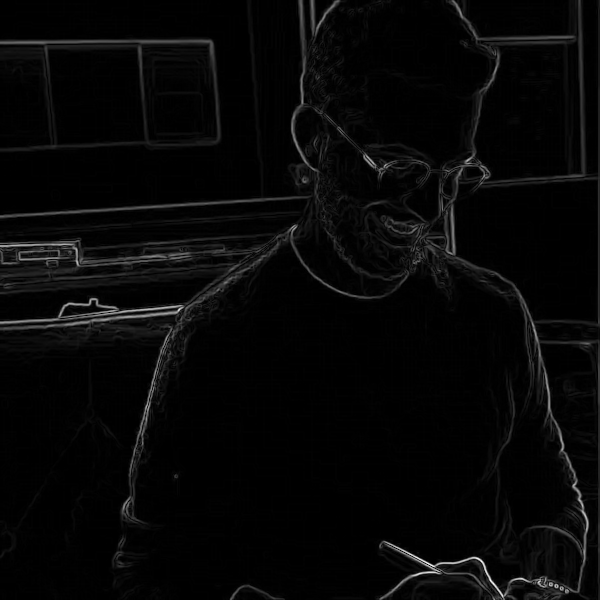
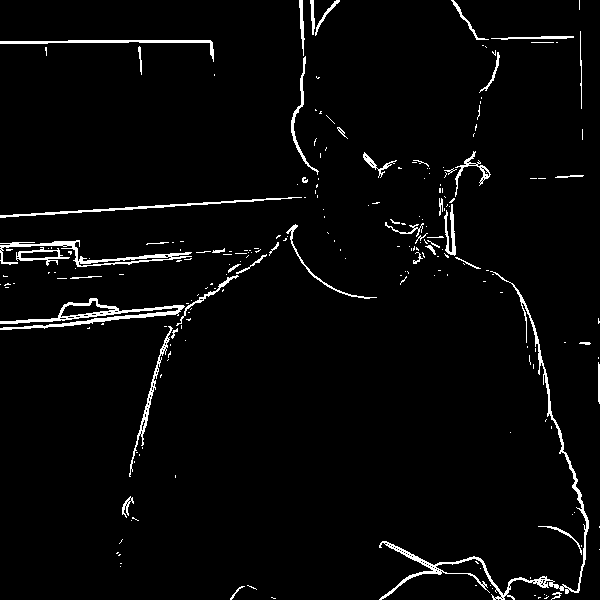
Update filters based on test results

diff --git a/image_utils.py b/image_utils.py
@@ -1,50 +1,41 @@
 from PIL import Image
 import numpy as np
 from scipy.signal import convolve2d
+from skimage.filters import median
+from skimage.morphology import ball
 import os
 
 KERNELY = np.array([[1, 2, 1], [0, 0, 0], [-1, -2, -1]])
 KERNELX = np.array([[1, 0, -1], [2, 0, -2], [1, 0, -1]])
 
 def load_image(path):
-    """
-    Load an image from the given path and return a numpy array.
-    """
     if not os.path.exists(path):
         raise ValueError(f"Image at path '{path}' not found.")
+    return np.array(Image.open(path))
 
-    image = np.array(Image.open(path))
-
-    # removing noise resulted in worse performance so I removed it
-
-    return image
-
-def edge_detection(image, save_path='edges.png'):
+def preprocess_image(image):
     """
-    Perform edge detection using Sobel operator.
-    Args:
-        image: numpy array of the image.
-        save_path: Path to save the resulting edge-detected image.
-
-    Returns:
-        Numpy array of the edge-detected image.
+    Apply a median filter for noise reduction.
     """
-    # Convert to grayscale if RGB
+    return median(image, ball(3))
+
+def edge_detection(image, threshold=50, save_path='edges.png'):
+    """
+    Perform edge detection using Sobel operator and binary thresholding.
+    """
     if image.ndim == 3:
         bw_image = image.mean(axis=2)
     else:
         bw_image = image
 
-    # Apply Sobel operator
     edgeX = convolve2d(bw_image, KERNELX, mode='same', boundary='symm')
     edgeY = convolve2d(bw_image, KERNELY, mode='same', boundary='symm')
     edgeMAG = np.sqrt(edgeX**2 + edgeY**2)
 
-    # Normalize to 0-255
     edgeMAG = (edgeMAG / edgeMAG.max() * 255).astype(np.uint8)
+    edge_binary = edgeMAG > threshold  # Binary threshold
 
-    # Save if a path is provided
     if save_path:
-        Image.fromarray(edgeMAG).save(save_path)
+        Image.fromarray((edge_binary * 255).astype(np.uint8)).save(save_path)
 
-    return edgeMAG
+    return edge_binary
